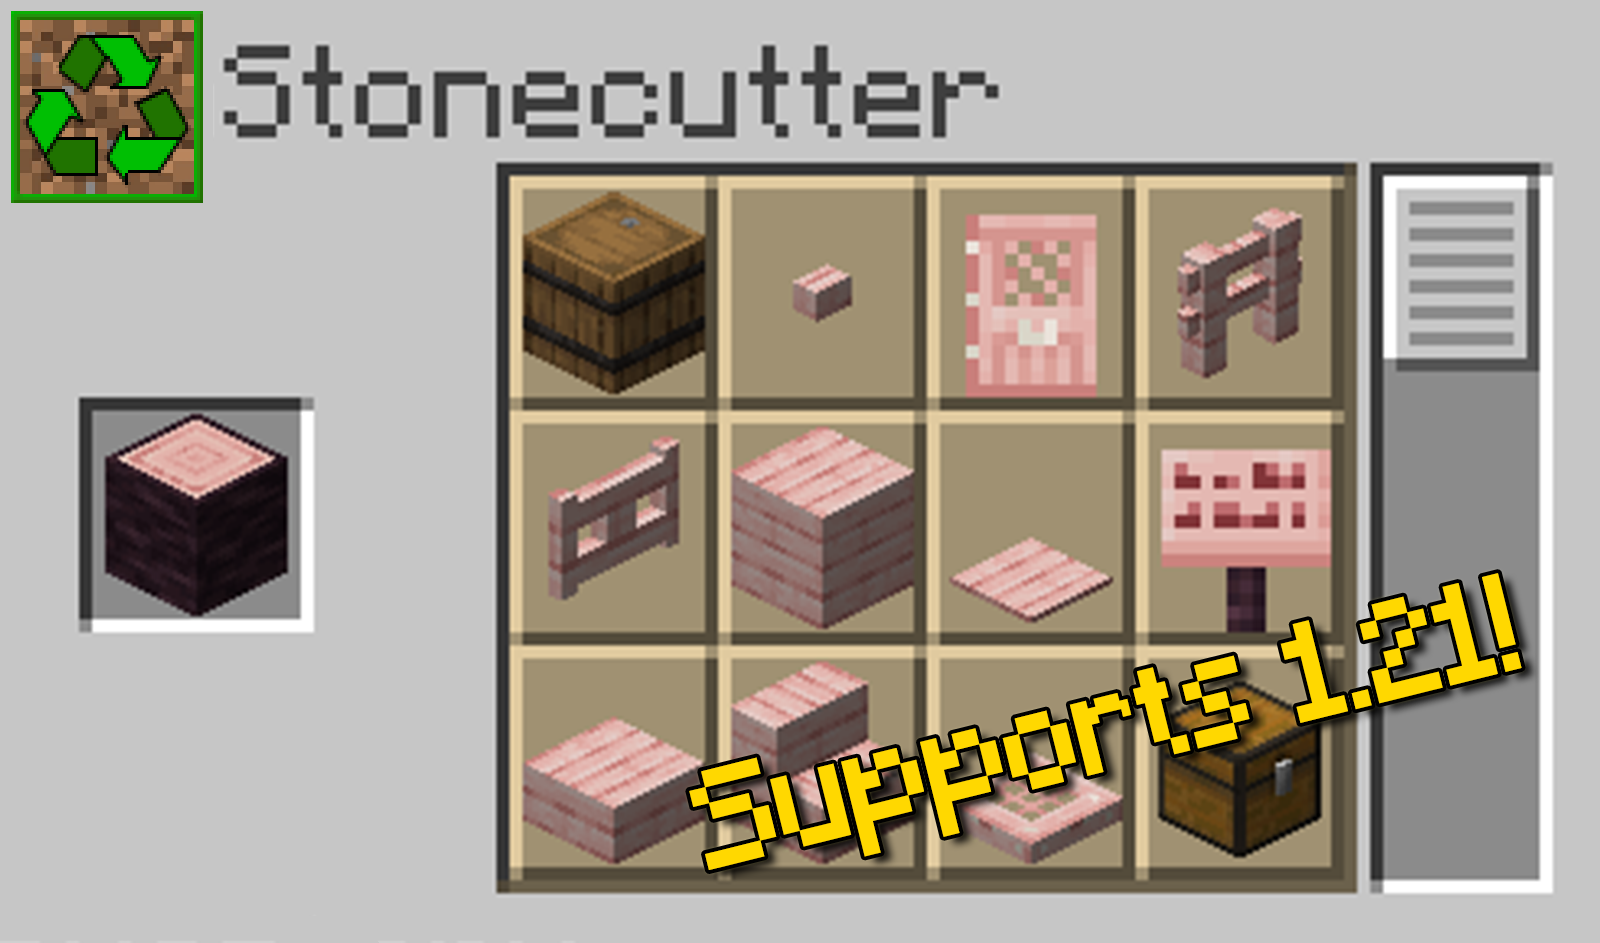
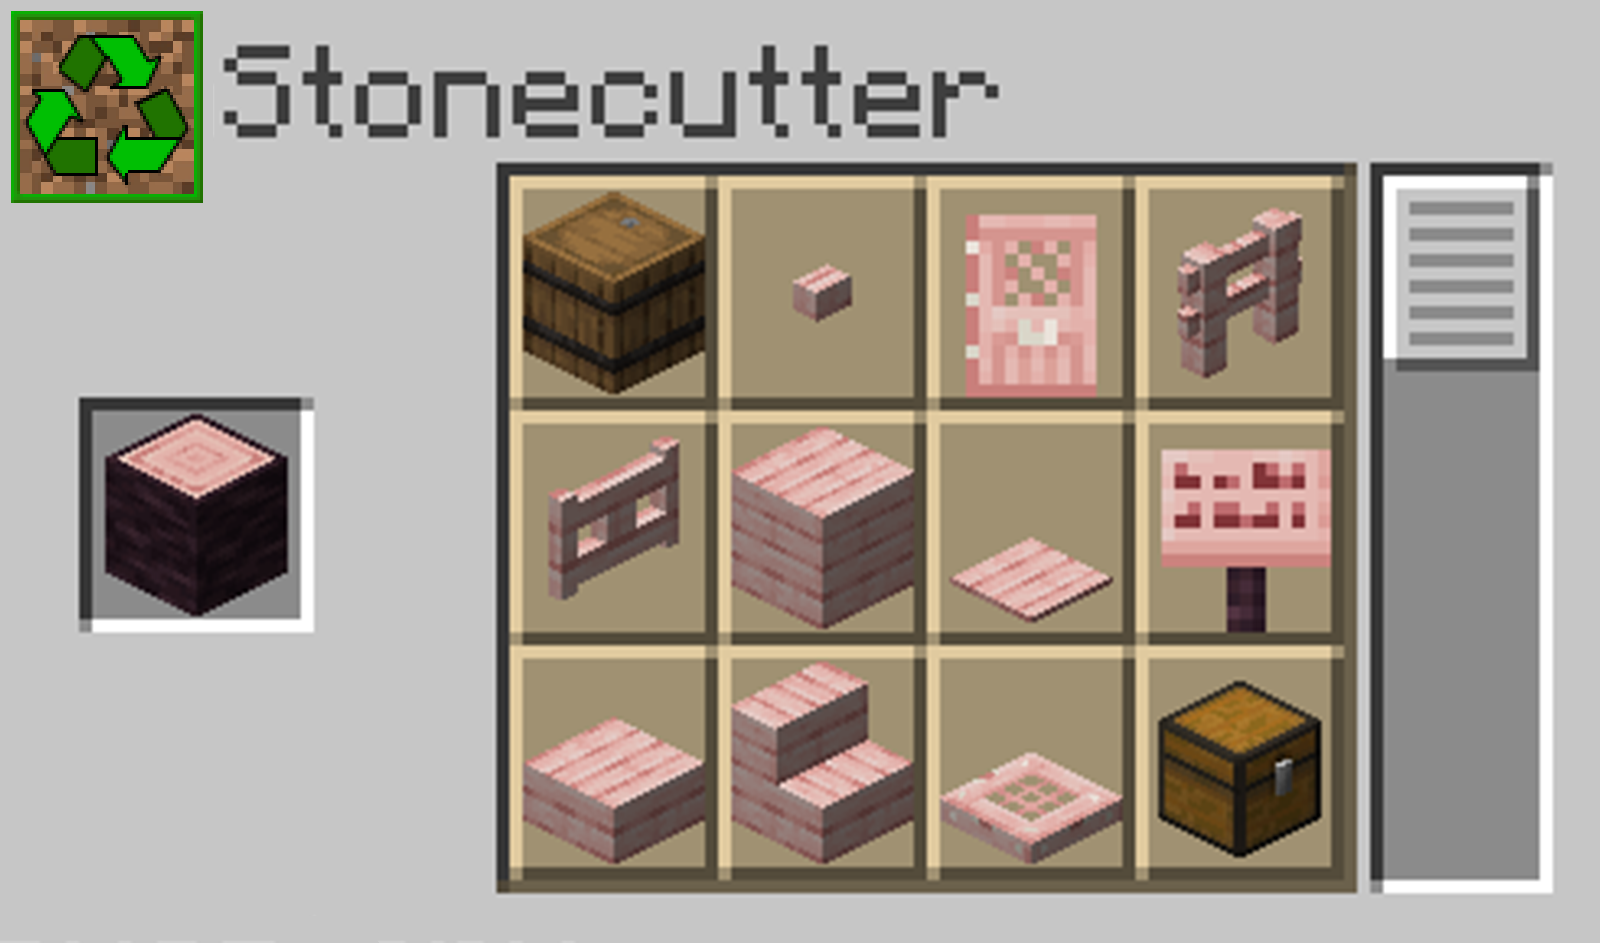
cuttable wood 3.5

Changed region(s): [[0.4062, 0.5843, 0.9688, 0.9533]]

diff --git a/pages/recyclecraft/cuttable_wood.md b/pages/recyclecraft/cuttable_wood.md
@@ -4,22 +4,21 @@ keywords: minecraft, datapack
 tags: [datapack, recyclecraft, standalone, QoL, crafting]
 sidebar: home_sidebar
 toc: true
-last_updated: 16/Jul/2026
+last_updated: 16/Sep/2026
 permalink: cuttable_wood.html
 published: true
 modrinth: https://modrinth.com/datapack/cuttable-wood
-pmc: https://www.planetminecraft.com/data-pack/cuttable-wood/
 first_release: ["22","Jul","2020"]
-last_release: ["01","Oct","2025"]
+last_release: ["16","Sep","2026"]
 logo: recyclecraft/cuttable_wood/pack.png
 thumbnail: recyclecraft/cuttable_wood/thumbnail.png
 intro: "A datapack that adds new recipes for the stonecutter, to make the crafting of wooden items more comfortable and sensible."
 abstract: "Makes wood blocks cuttable in the stonecutter, to make the crafting of wooden items more comfortable and sensible."
 priority: 2
 index: 1
-downloads: 25800 # 17300 on pmc before redirecting to modrinth
-downloads_str: "&gt;25k"
-gallery: [images/recyclecraft/cuttable_wood/thumbnail.png,images/recyclecraft/cuttable_wood/thumbnail-mc1.20.png,https://static.planetminecraft.com/files/image/minecraft/data-pack/2023/836/16842581_l.webp,https://static.planetminecraft.com/files/image/minecraft/data-pack/2023/836/16842582_l.webp,https://static.planetminecraft.com/files/image/minecraft/data-pack/2023/836/16842585_l.webp,https://static.planetminecraft.com/files/image/minecraft/data-pack/2021/836/15140459-screenshot-at_l.webp]
+downloads: 29200 # 17300 on pmc before redirecting to modrinth
+downloads_str: "&gt;29k"
+gallery: [images/recyclecraft/cuttable_wood/thumbnail.png,https://static.planetminecraft.com/files/image/minecraft/data-pack/2023/836/16842581_l.webp,https://static.planetminecraft.com/files/image/minecraft/data-pack/2023/836/16842582_l.webp,https://static.planetminecraft.com/files/image/minecraft/data-pack/2023/836/16842585_l.webp,https://static.planetminecraft.com/files/image/minecraft/data-pack/2021/836/15140459-screenshot-at_l.webp]
 ---
 
 ## Downloads
@@ -27,23 +26,33 @@ gallery: [images/recyclecraft/cuttable_wood/thumbnail.png,images/recyclecraft/cu
 Choose the option compatible with your Minecraft version:
 
 <ul id="profileTabs" class="nav nav-tabs">
-    <li class="active"><a href="#1-21-9" data-toggle="tab">1.21.9+</a></li>
+    <li class="active"><a href="#26-3" data-toggle="tab">26.3+</a></li>
+    <li><a href="#1-21-9" data-toggle="tab">1.21.9–26.2</a></li>
     <li><a href="#1-21-5" data-toggle="tab">1.21.5–1.21.8</a></li>
-    <li><a href="#1-21-2" data-toggle="tab">1.21.2–1.21.4</a></li>
-    <li><a href="#legacy-1-21" data-toggle="tab">1.21–1.21.1</a></li>
     <li><a href="#legacy" data-toggle="tab">1.14–1.20.6</a></li>
 </ul>
 
 <div class="tab-content">
-    <div role="tabpanel" class="tab-pane active" id="1-21-9">
-        {% include dp_badges.html supports="1.21.9+" tested="1.21.9, 1.21.11, 26.1.1, 26.2" %}
+    <div role="tabpanel" class="tab-pane active" id="26-3">
+        {% include dp_badges.html supports="26.3+" tested="26.3" %}
         <p><b>Vanilla-balanced version:</b></p>
         <p>
-            {% include dp_download.html version="v3.4-balanced" modrinth-url="https://cdn.modrinth.com/data/8R3aHRI9/versions/Cku5lN04/cuttable_wood_v3.4-balanced.zip" pmc-url="https://www.planetminecraft.com/data-pack/cuttable-wood/" dropbox-url="https://www.dropbox.com/scl/fi/3bnbtgz11ykb6csq491ds/cuttable_wood_v3.4-balanced.zip?rlkey=h3531ty3one7owv0jzq4d53dj&st=1udqkb71&dl=1" %}
+            {% include dp_download.html version="v3.5-balanced" modrinth-url="https://cdn.modrinth.com/data/8R3aHRI9/versions/9UdTCN06/cuttable_wood_v3.5-balanced.zip?mr_download_reason=standalone" dropbox-url="https://www.dropbox.com/scl/fi/cqj3q5ymsnd0mmqeezy1z/cuttable_wood_v3.5-balanced.zip?rlkey=w4joyxqxpx5c3bmamo9o6c7s4&st=tdc6tfrq&dl=1" %}
         </p>
         <p><b>OP version:</b></p>
         <p>
-            {% include dp_download.html version="v3.4-op" pmc-url="https://www.planetminecraft.com/data-pack/cuttable-wood/" dropbox-url="https://www.dropbox.com/scl/fi/ywt63ki7wmatvy0tuplmt/cuttable_wood_v3.4-op.zip?rlkey=fsv117jkl37czgmh6azyvnv2o&st=i37l4wns&dl=1" %}
+            {% include dp_download.html version="v3.5-op" dropbox-url="https://www.dropbox.com/scl/fi/lvyr9nuzkgfikxahupi3t/cuttable_wood_v3.5-op.zip?rlkey=db9cylp732o9nbro0bwswsd5m&st=2dxghp2i&dl=1" %}
+        </p>
+    </div>
+    <div role="tabpanel" class="tab-pane" id="1-21-9">
+        {% include dp_badges.html supports="1.21.9–26.2" tested="1.21.9, 1.21.11, 26.1.1, 26.2" %}
+        <p><b>Vanilla-balanced version:</b></p>
+        <p>
+            {% include dp_download.html version="v3.4-balanced" modrinth-url="https://cdn.modrinth.com/data/8R3aHRI9/versions/Cku5lN04/cuttable_wood_v3.4-balanced.zip" dropbox-url="https://www.dropbox.com/scl/fi/3bnbtgz11ykb6csq491ds/cuttable_wood_v3.4-balanced.zip?rlkey=h3531ty3one7owv0jzq4d53dj&st=1udqkb71&dl=1" discontinued=true %}
+        </p>
+        <p><b>OP version:</b></p>
+        <p>
+            {% include dp_download.html version="v3.4-op" pmc-url="https://www.planetminecraft.com/data-pack/cuttable-wood/" dropbox-url="https://www.dropbox.com/scl/fi/ywt63ki7wmatvy0tuplmt/cuttable_wood_v3.4-op.zip?rlkey=fsv117jkl37czgmh6azyvnv2o&st=i37l4wns&dl=1" discontinued=true %}
         </p>
     </div>
     <div role="tabpanel" class="tab-pane" id="1-21-5">
@@ -57,28 +66,6 @@ Choose the option compatible with your Minecraft version:
             {% include dp_download.html version="v3.3.1-op" dropbox-url="https://www.dropbox.com/scl/fi/nh4hbdm7v54dat20lcsb9/cuttable_wood_v3.3.1-op.zip?rlkey=4kretpy4m80erfcqavawgajxp&st=tijoufmo&dl=1" discontinued=true %}
         </p>
     </div>
-    <div role="tabpanel" class="tab-pane" id="1-21-2">
-        {% include dp_badges.html supports="1.21.2–1.21.4" tested="1.21.3, 1.21.4" %}
-        <p><b>Vanilla-balanced version:</b></p>
-        <p>
-            {% include dp_download.html version="v3.2-balanced" dropbox-url="https://www.dropbox.com/scl/fi/89i5l52869mpnlk9p18i8/cuttable_wood_v3.2-balanced.zip?rlkey=iy2bhy0r8gl0a6rhfliflwwy3&st=awhhj2js&dl=1" discontinued=true %}
-        </p>
-        <p><b>OP version:</b></p>
-        <p>
-            {% include dp_download.html version="v3.2-op" dropbox-url="https://www.dropbox.com/scl/fi/dgmav9a9rk2bv1uk695hw/cuttable_wood_v3.2-op.zip?rlkey=mst7433a2sjqb79rhvuh7yqvl&st=fbaavjmi&dl=1" discontinued=true %}
-        </p>
-    </div>
-    <div role="tabpanel" class="tab-pane" id="legacy-1-21">
-        {% include dp_badges.html supports="1.21–1.21.1" tested="1.21" %}
-        <p><b>Vanilla-balanced version:</b></p>
-        <p>
-            {% include dp_download.html version="v3.1.1-balanced" dropbox-url="https://www.dropbox.com/scl/fi/rs446ixrus8crxpazkqh4/cuttable_wood_v3.1.1-balanced.zip?rlkey=qslzpcfnitol4bkrm4bh5vlx0&st=c2t6j1y3&dl=1" discontinued=true %}
-        </p>
-        <p><b>OP version:</b></p>
-        <p>
-            {% include dp_download.html version="v3.1.1-op" dropbox-url="https://www.dropbox.com/scl/fi/4td9003prbnzenzfd7w4l/cuttable_wood_v3.1.1-op.zip?rlkey=f9u33j0kg705kpotktldcxwgb&st=3ffd3su2&dl=1" discontinued=true %}
-        </p>
-    </div>
     <div role="tabpanel" class="tab-pane" id="legacy">
         For older Minecraft versions (no longer maintained, recipes may be different than described in this page):
         <table><thead>
@@ -89,6 +76,18 @@ Choose the option compatible with your Minecraft version:
                 <th>Download links</th>
             </tr></thead>
             <tbody>
+            <tr>
+                <td>1.21.2–1.21.4</td>
+                <td>3.2</td>
+                <td>1.21.3, 1.21.4</td>
+                <td>Dropbox: <a href='https://www.dropbox.com/scl/fi/dgmav9a9rk2bv1uk695hw/cuttable_wood_v3.2-op.zip?rlkey=mst7433a2sjqb79rhvuh7yqvl&st=fbaavjmi&dl=1'>"OP" version</a> | <a href='https://www.dropbox.com/scl/fi/89i5l52869mpnlk9p18i8/cuttable_wood_v3.2-balanced.zip?rlkey=iy2bhy0r8gl0a6rhfliflwwy3&st=awhhj2js&dl=1'>"balanced" version</a></td>
+            </tr>
+            <tr>
+                <td>1.21–1.21.1</td>
+                <td>3.1.1</td>
+                <td>1.21</td>
+                <td>Dropbox: <a href='https://www.dropbox.com/scl/fi/4td9003prbnzenzfd7w4l/cuttable_wood_v3.1.1-op.zip?rlkey=f9u33j0kg705kpotktldcxwgb&st=3ffd3su2&dl=1'>"OP" version</a> | <a href='https://www.dropbox.com/scl/fi/rs446ixrus8crxpazkqh4/cuttable_wood_v3.1.1-balanced.zip?rlkey=qslzpcfnitol4bkrm4bh5vlx0&st=c2t6j1y3&dl=1'>"balanced" version</a></td>
+            </tr>
             <tr>
                 <td>1.20.5–1.20.6</td>
                 <td>3.1</td>

diff --git a/pages/recyclecraft/better_stonecutter.md b/pages/recyclecraft/better_stonecutter.md
@@ -38,7 +38,7 @@ Choose the option compatible with your Minecraft version:
         {% include dp_badges.html supports="26.3+" tested="26.3" %}
         <p><b>Vanilla-balanced version:</b></p>
         <p>
-            {% include dp_download.html version="v2.4" modrinth-url="https://cdn.modrinth.com/data/F633jSZ5/versions/f183h7HY/better_stonecutter_v2.4-balanced.zip?mr_download_reason=standalone" dropbox-url="https://www.dropbox.com/scl/fi/ex230njq036ybxgjenn1h/better_stonecutter_v2.4-balanced.zip?rlkey=7agplt5nlpolv0wc2x1apfz2n&st=cwtymw1o&dl=1" %}
+            {% include dp_download.html version="v2.4-balanced" modrinth-url="https://cdn.modrinth.com/data/F633jSZ5/versions/f183h7HY/better_stonecutter_v2.4-balanced.zip?mr_download_reason=standalone" dropbox-url="https://www.dropbox.com/scl/fi/ex230njq036ybxgjenn1h/better_stonecutter_v2.4-balanced.zip?rlkey=7agplt5nlpolv0wc2x1apfz2n&st=cwtymw1o&dl=1" %}
         </p>
         <p><b>OP version:</b></p>
         <p>

diff --git a/_posts/cuttable_wood/2026-09-16-cuttable_wood_v3.5.md b/_posts/cuttable_wood/2026-09-16-cuttable_wood_v3.5.md
@@ -1,0 +1,14 @@
+---
+title:  "Cuttable Wood - 3.5 update"
+published: true
+permalink: cuttable_wood_v3.5.html
+summary: "Added recipes for poplar wood"
+tags: [news,changelog,recyclecraft]
+datapack: cuttable_wood
+changelog: v3.5
+---
+
+<div class="btn-group">
+    <a href="cuttable_wood_v3.4.html" role="button" class="btn btn-primary"><i class="fa fa-caret-left"></i>&nbsp; Previous release: v3.4</a>
+    <button role="button" class="btn btn-default disabled">Next release: TBR &nbsp;<i class="fa fa-caret-right"></i> </button>
+</div>

diff --git a/_posts/cuttable_wood/2025-10-01-cuttable_wood_v3.4.md b/_posts/cuttable_wood/2025-10-01-cuttable_wood_v3.4.md
@@ -10,5 +10,5 @@ changelog: v3.4
 
 <div class="btn-group">
     <a href="cuttable_wood_v3.3.1.html" role="button" class="btn btn-primary"><i class="fa fa-caret-left"></i>&nbsp; Previous release: v3.3.1</a>
-    <button role="button" class="btn btn-default disabled">Next release: TBR &nbsp;<i class="fa fa-caret-right"></i> </button>
+    <a href="cuttable_wood_v3.5.html" role="button" class="btn btn-primary">Next release: v3.5 &nbsp;<i class="fa fa-caret-right"></i></a>
 </div>

diff --git a/_includes/changelogs/cuttable_wood/v3.5.md b/_includes/changelogs/cuttable_wood/v3.5.md
@@ -1,0 +1,3 @@
+
+- Added recipes for poplar wood
+- Adapted to new 26.3 datapack format
